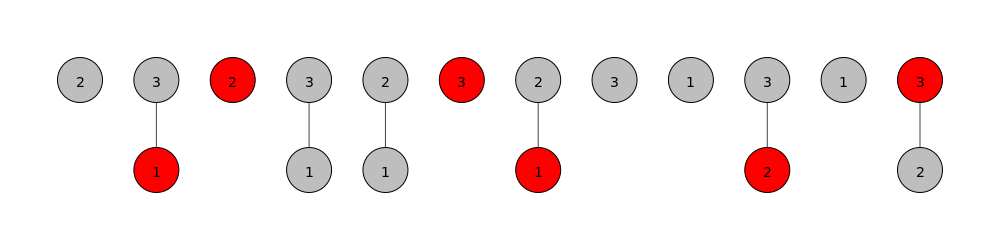
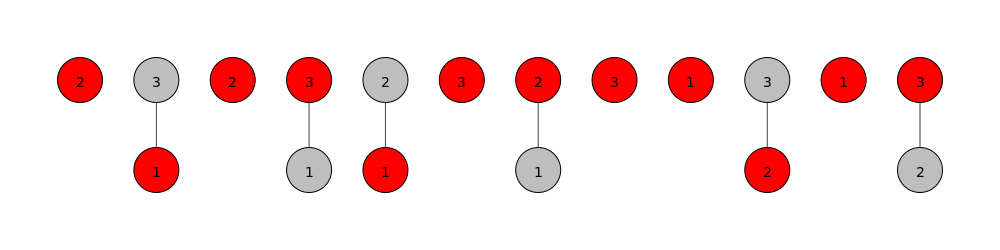
fixed pictures

diff --git a/relations.py b/relations.py
@@ -42,21 +42,19 @@ if __name__ == "__main__":
     visual_style["vertex_size"] = 45
     visual_style["margin"] = 80
 
-    roots = [4*i-(i//3)*3 for i in range(9)]
     visual_style["vertex_label"] = [(i.index % 3)+1 for i in forest.vs]
     visual_style["layout"] = forest.layout_reingold_tilford(root=[3*i+(i//3) for i in range(9)])
-    visual_style["vertex_color"] = ["red" if i in roots else "gray" for i in range(27)]
-    plot_graphs(forest, "", **visual_style)
+    visual_style["vertex_color"] = ["red" if i in [4*i-(i//3)*3 for i in range(9)] else "gray" for i in range(27)]
+    plot_graphs(forest, "ff31.png", **visual_style)
 
     # plot FF_3,2
     forest = make_FF32()
     print(forest)
 
-    roots = [0,1,4,5,6,8,10,11,12,13,15,17]
     visual_style["vertex_label"] = [(i.index % 3)+1 for i in forest.vs]
     visual_style["layout"] = forest.layout_reingold_tilford()
-    visual_style["vertex_color"] = ["red" if i in roots else "gray" for i in range(18)]
-    plot_graphs(forest, "", **visual_style)
+    visual_style["vertex_color"] = ["red" if i in [0,1,4,5,6,8,10,11,12,13,15,17] else "gray" for i in range(18)]
+    plot_graphs(forest, "ff32.png", **visual_style)
 
     # plot FF_3,3
     forest = make_F33()
@@ -66,5 +64,5 @@ if __name__ == "__main__":
     visual_style["vertex_label"] = [(i.index % 3)+1 for i in forest.vs]
     visual_style["layout"] = forest.layout_reingold_tilford()
     visual_style["vertex_color"] = ["red" if i in roots else "gray" for i in range(3)]
-    plot_graphs(forest, "", **visual_style)
+    plot_graphs(forest, "ff33.png", **visual_style)
 
